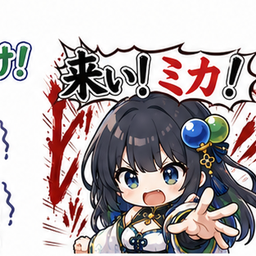
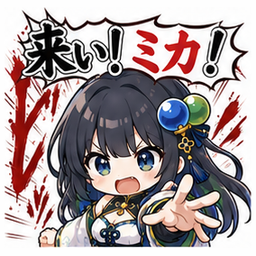
feat(stamp): スタンプを 17 種に (リョー「このへんからスタンプ足して」)
- 一発ポッチ！？を新しく、急にマイ転…とサイコロチャンス！は新しい絵に差し替え
- 隠していたフィーバー ・ 来いミカ ・ シュバらなくていいの ・ 打たれ負け ・ 赤黄のこ ・ 曲げ得 ・ 腕場は元のシートから切り直して戻す
- サーバの許可リストも同じ 17 種に。パレットは背の低い画面で中だけ縦に送る

diff --git a/src/lib/store.ts b/src/lib/store.ts
@@ -52,11 +52,14 @@ import {
 
 /** 12 種スタンプ ID [テキスト frame で先行、 後追いで画像差替予定]
  *  game state 副作用なし、 純粋 cosmetic [_action_log にも入らない、 reload 復元なし] */
-// リョー指示 2026-05-15: 段階的に復活、 現 6 種有効。
-// 他は image 残置で 後で復活可能、 STAMP_IDS から外すだけで pallet / popup から消える
+// リョー指示 2026-05-15: 段階的に復活。2026-11-02 リョー「このへんからスタンプ足して」で 17 種
+// [隠していた 8 種は絵を元のシートから切り直し、一発ポッチを新しく、マイ転とサイコロは新しい絵]
+// STAMP_IDS から外すだけで pallet / popup から消える。server/ws_server.ts の STAMP_IDS も同じ並びにする
 export const STAMP_IDS = [
   'shunkashutou', 'kita4', 'konmika', 'shubapotsumo',
-  'doko', 'gyakushubatsumo', 'plus', 'saikoro',
+  'doko', 'gyakushubatsumo', 'plus', 'minus',
+  'saikoro', 'ippatsu', 'fever', 'koi',
+  'shuva', 'utare', 'akakino', 'magege', 'udeba',
 ] as const;
 export type StampId = typeof STAMP_IDS[number];
 export const STAMP_LABELS: Record<StampId, string> = {
@@ -67,7 +70,16 @@ export const STAMP_LABELS: Record<StampId, string> = {
   doko: 'どっから切っとんねーん',
   gyakushubatsumo: '逆シュバツモ',
   plus: '急にプラ転',
+  minus: '急にマイ転…',
   saikoro: 'サイコロチャンス！',
+  ippatsu: '一発ポッチ！？',
+  fever: 'フィーバー！',
+  koi: '来い！ミカ！',
+  shuva: 'シュバらなくていいの？',
+  utare: 'う、打たれ負け！',
+  akakino: '赤黄のこ',
+  magege: '曲げ得',
+  udeba: '腕場',
 };
 const _STAMP_ID_SET: Set<string> = new Set(STAMP_IDS);
 /** スタンプ表示の自動 fade-out [ms] */

diff --git a/src/lib/StampPallet.svelte b/src/lib/StampPallet.svelte
@@ -1,6 +1,6 @@
 
 <script lang="ts">
-  // スタンプ pallet [12 種 grid、 thumb image + label]
+  // スタンプ pallet [17 種 grid、背が足りない時は縦に送る、 thumb image + label]
   // 自家 panel の「💬」 button から open、 click で sendStamp
   import { STAMP_IDS, STAMP_LABELS, type StampId } from './store';
   export let onSelect: (id: StampId) => void;
@@ -39,8 +39,13 @@
     background: #fff;
     border-radius: 8px;
     padding: 12px;
-    min-width: 360px;
+    min-width: min(360px, 92vw);
     max-width: 92vw;
+    /* 2026-11-02 17 種に増えたので、背の低い画面 (スマホ横) では中だけ縦に送る */
+    max-height: 90vh;
+    max-height: 90dvh;
+    display: flex;
+    flex-direction: column;
     box-shadow: 0 4px 16px rgba(0, 0, 0, 0.3);
   }
   .stamp-pallet-header {
@@ -62,6 +67,8 @@
     display: grid;
     grid-template-columns: repeat(4, 1fr);
     gap: 6px;
+    overflow-y: auto;
+    min-height: 0;
   }
   .stamp-btn {
     display: flex;

diff --git a/server/ws_server.ts b/server/ws_server.ts
@@ -56,9 +56,12 @@ const DEFAULT_MATCH_RECORD_RETRY_DELAYS_MS = [0, 2_000, 5_000];
 const DEFAULT_NEXT_ROUND_TIMEOUT_MS = 180_000;
 const SERVER_NEXT_ROUND_UID = '__server_next_round__';
 
+// src/lib/store.ts の STAMP_IDS と同じ (2026-11-02 17 種)
 const STAMP_IDS = new Set([
   'shunkashutou', 'kita4', 'konmika', 'shubapotsumo',
-  'doko', 'gyakushubatsumo', 'plus', 'saikoro',
+  'doko', 'gyakushubatsumo', 'plus', 'minus',
+  'saikoro', 'ippatsu', 'fever', 'koi',
+  'shuva', 'utare', 'akakino', 'magege', 'udeba',
 ]);
 // [2026-10-09 R3] 1 frame の上限。client が送るのは action / resync / stamp 等の小さな JSON だけ
 // [数百 B。バグ通報の状態ダンプは ws ではなく HTTP POST /api/bugreport]。ws 既定の 100MB のままだと
